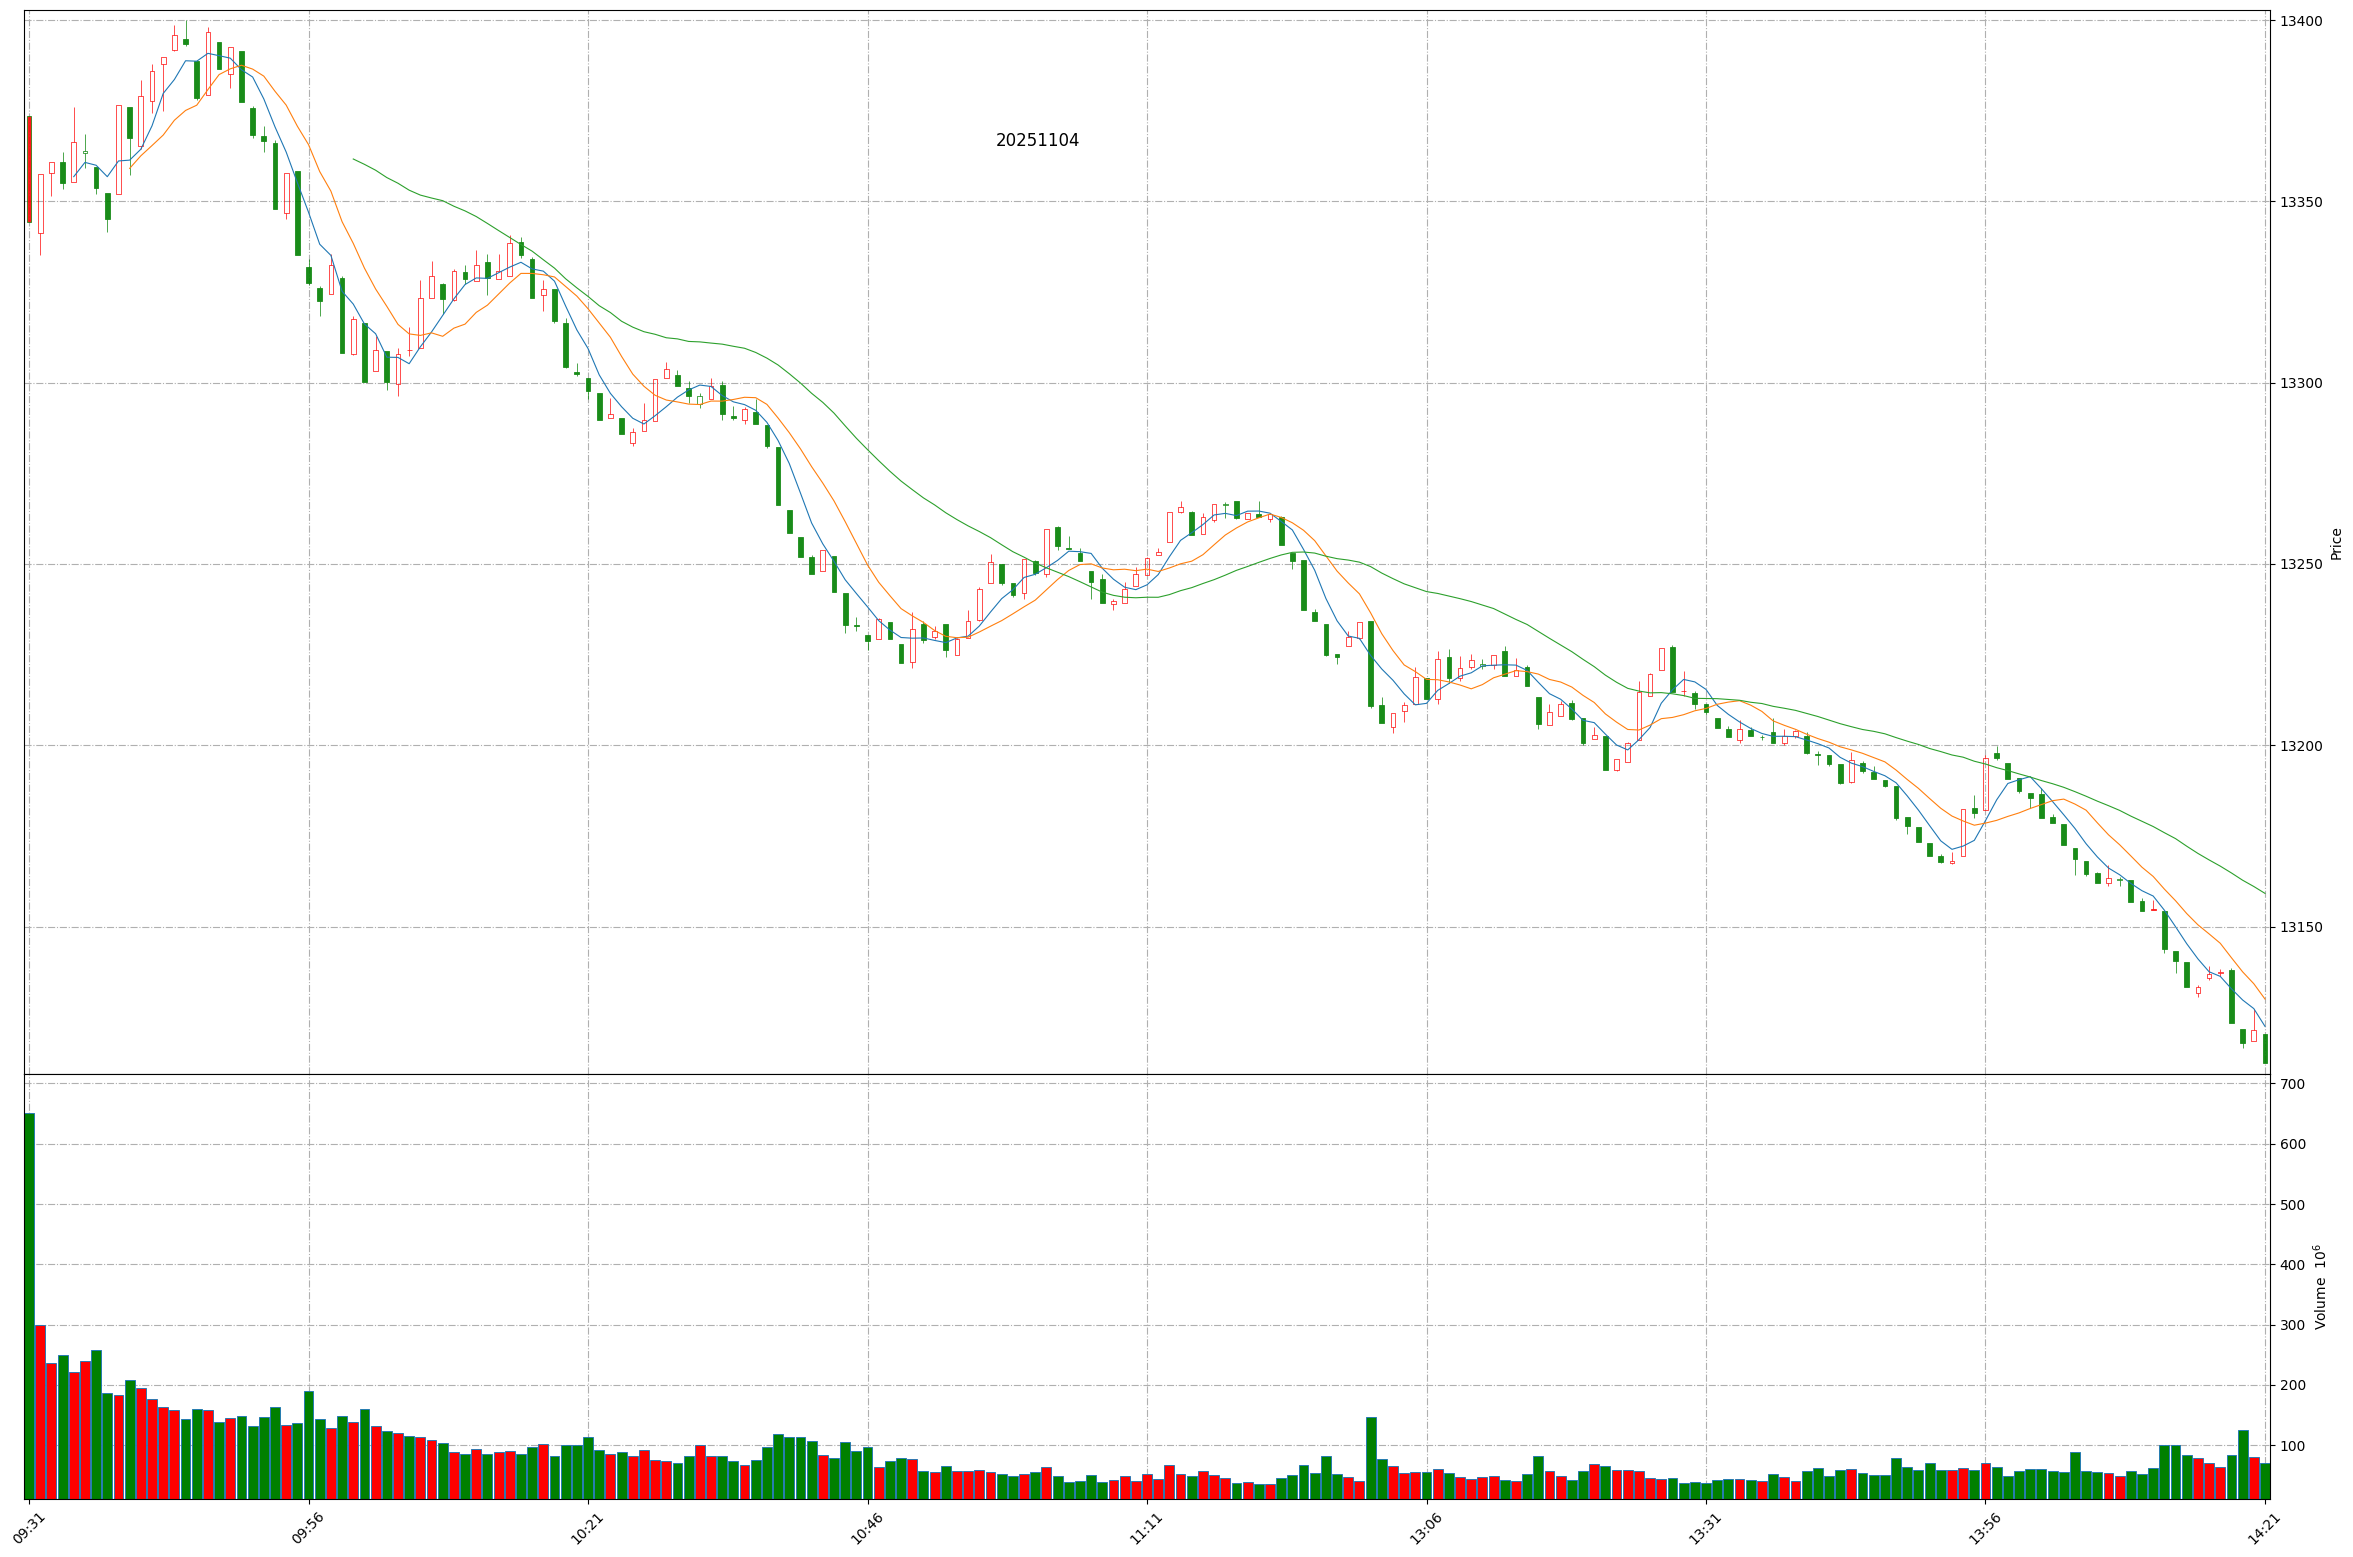
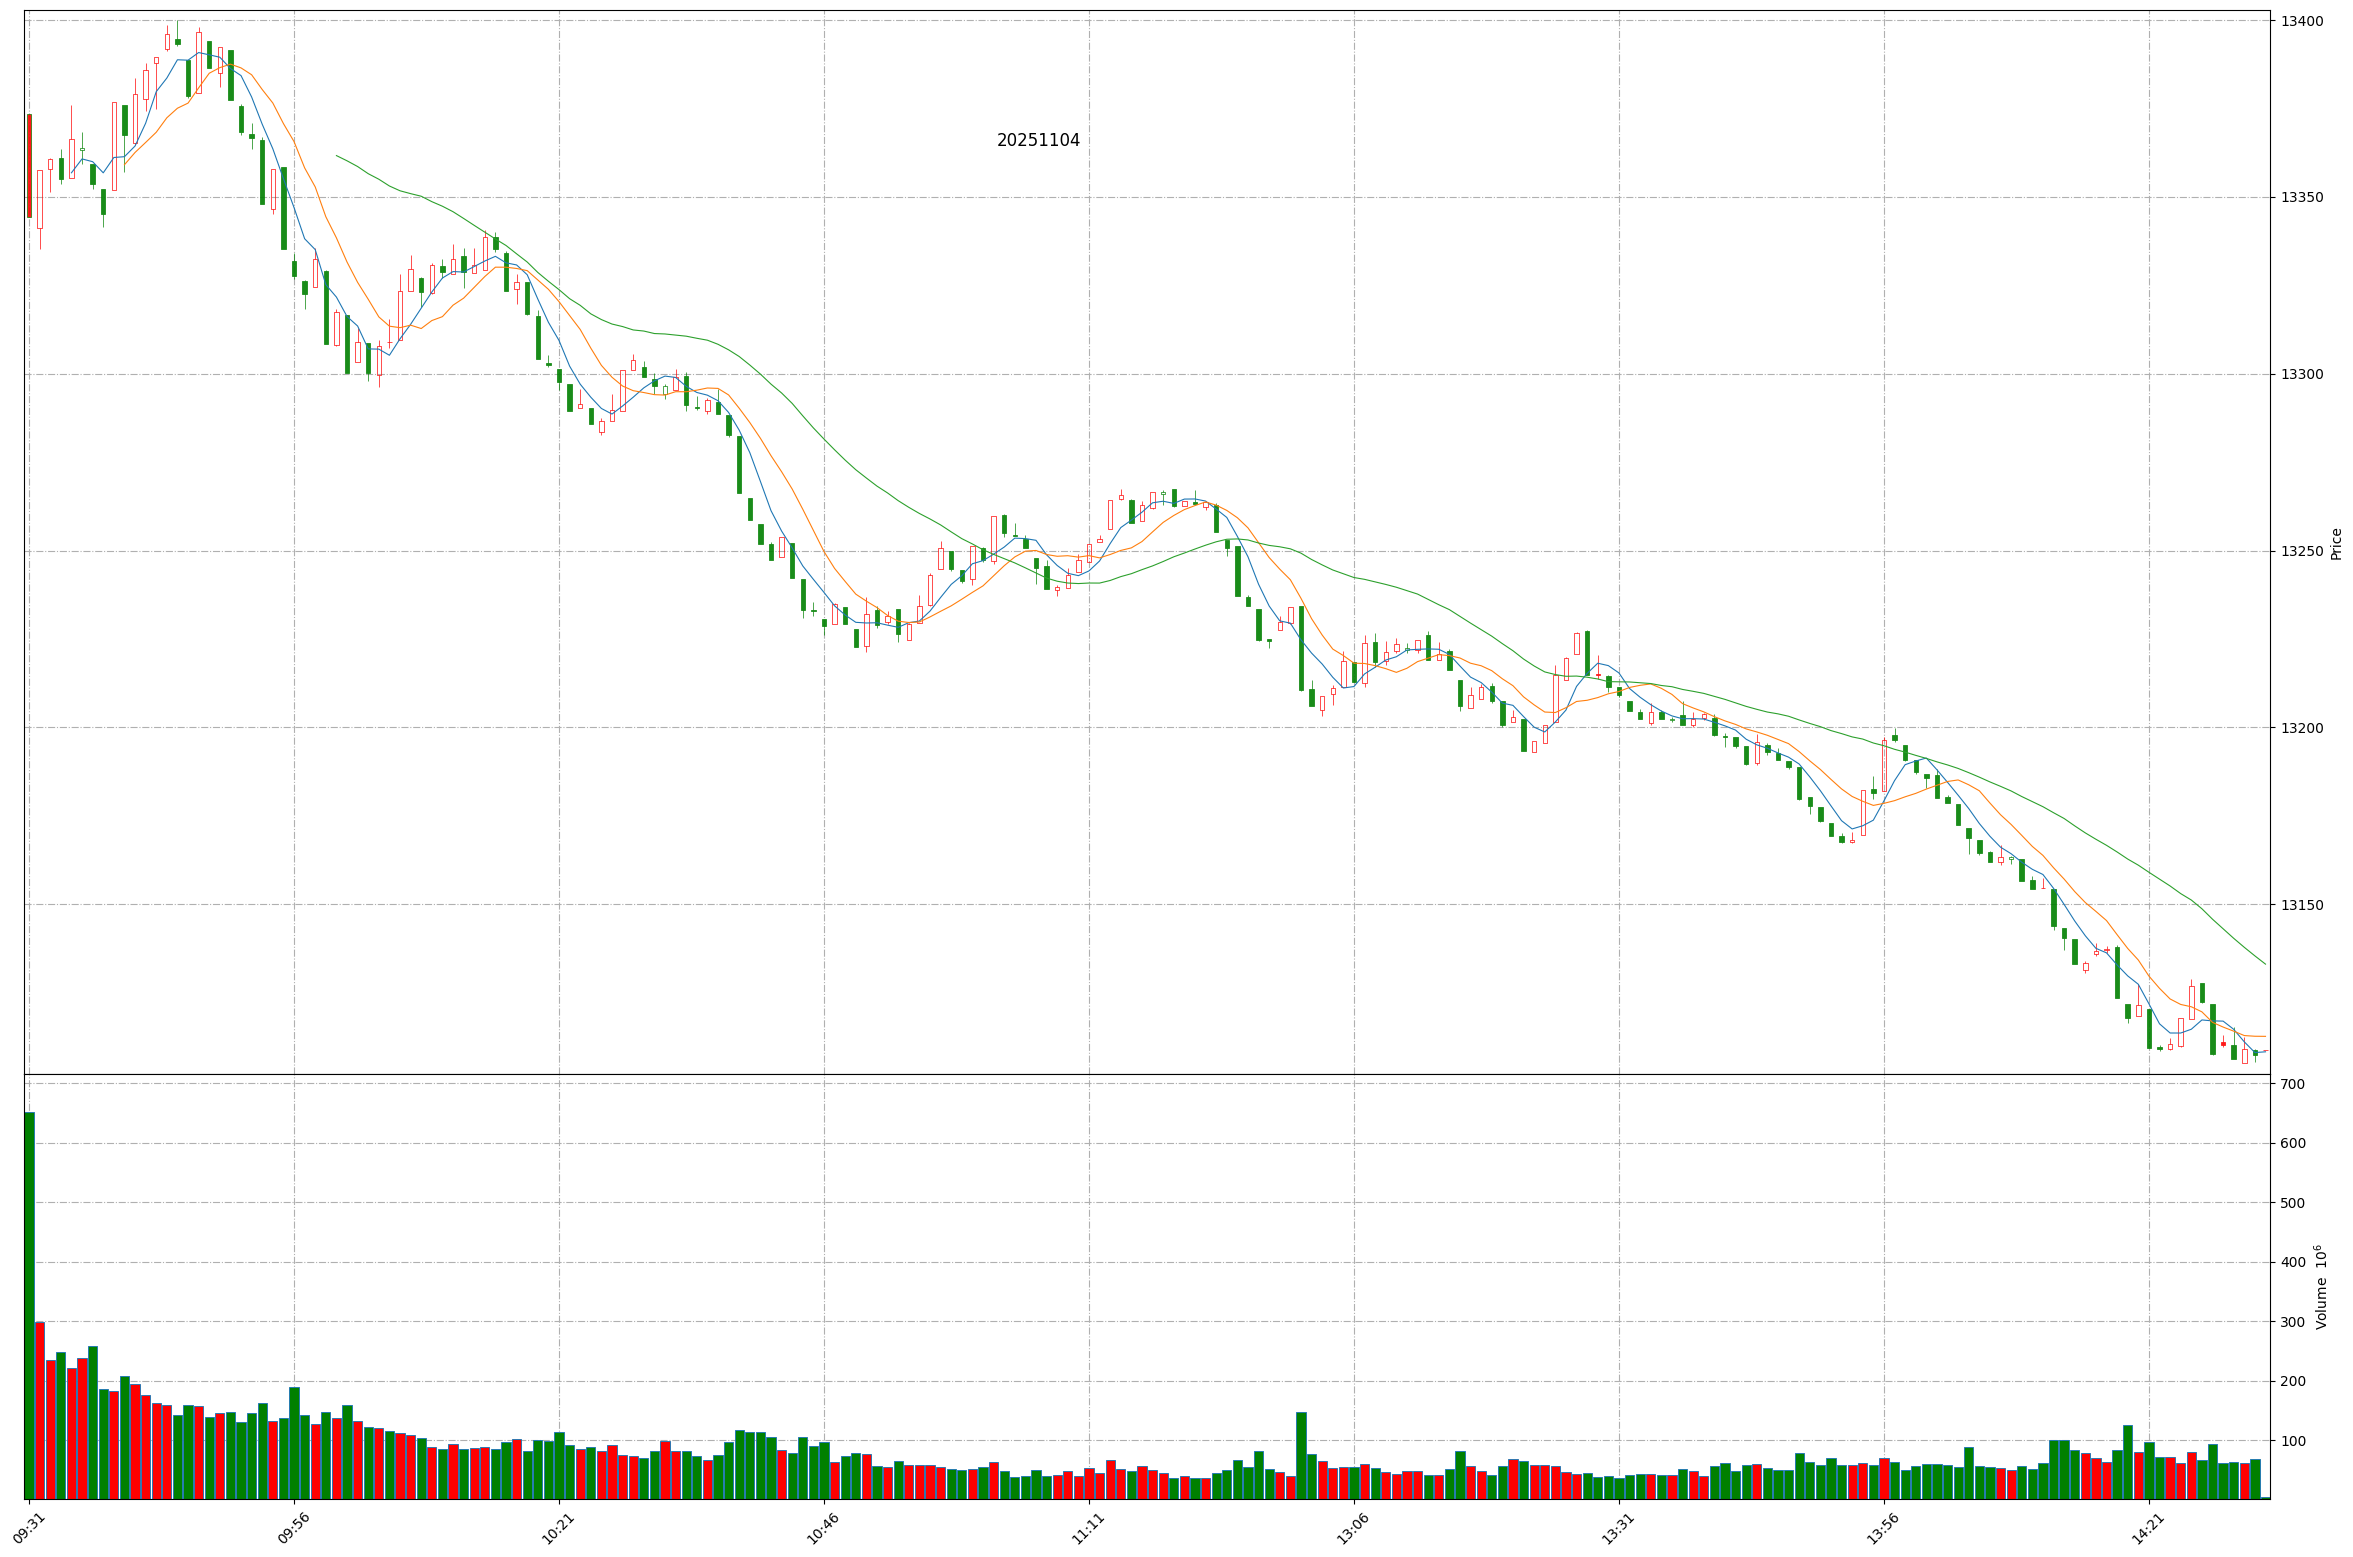
Github action update at 2025-11-04 14:31:15.

diff --git a/README.md b/README.md
@@ -1,11 +1,11 @@
 
 # Daily-A-share-market-quotes 每日 A 股指数（5min 更新）- 20251104
 
-### 上证指数 20251104 14:20
+### 上证指数 20251104 14:31
 ![](./fig/2025/11/20251104-sh000001.png)
 
-### 深证成指 20251104 14:20
+### 深证成指 20251104 14:31
 ![](./fig/2025/11/20251104-sz399001.png)
 
-### 北证50 20251104 14:20
+### 北证50 20251104 14:31
 ![](./fig/2025/11/20251104-bj899050.png)
